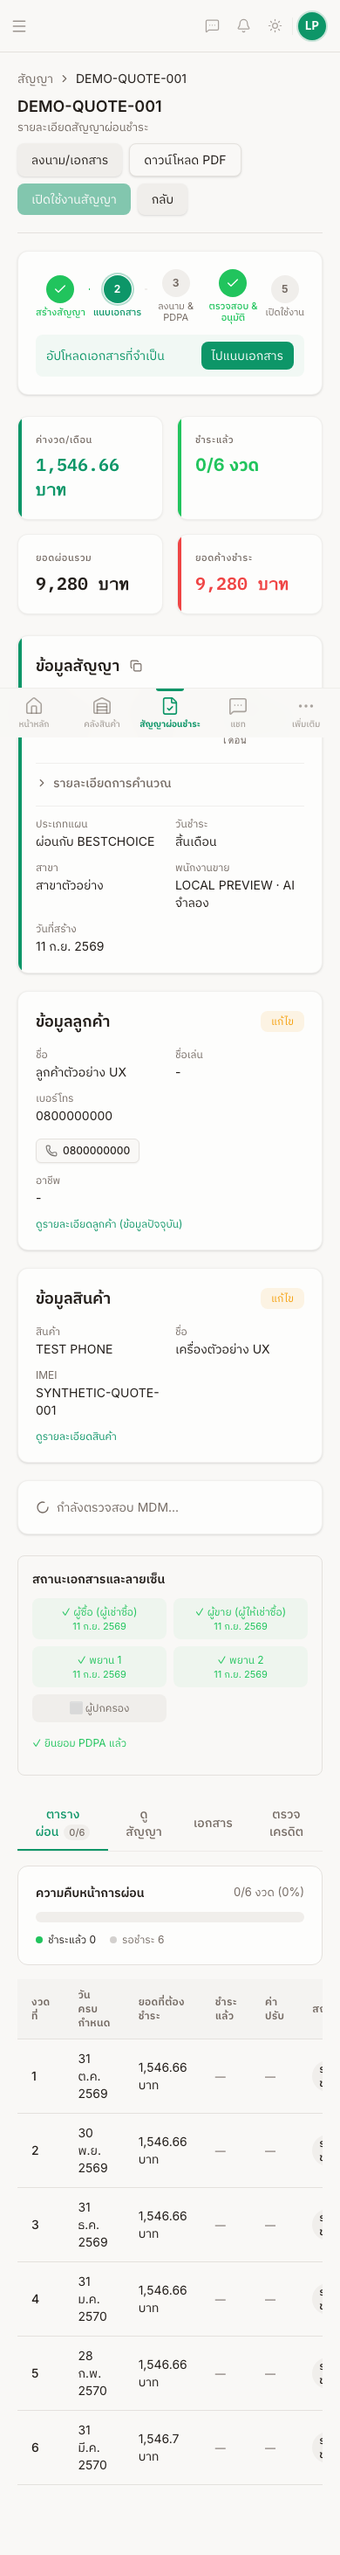
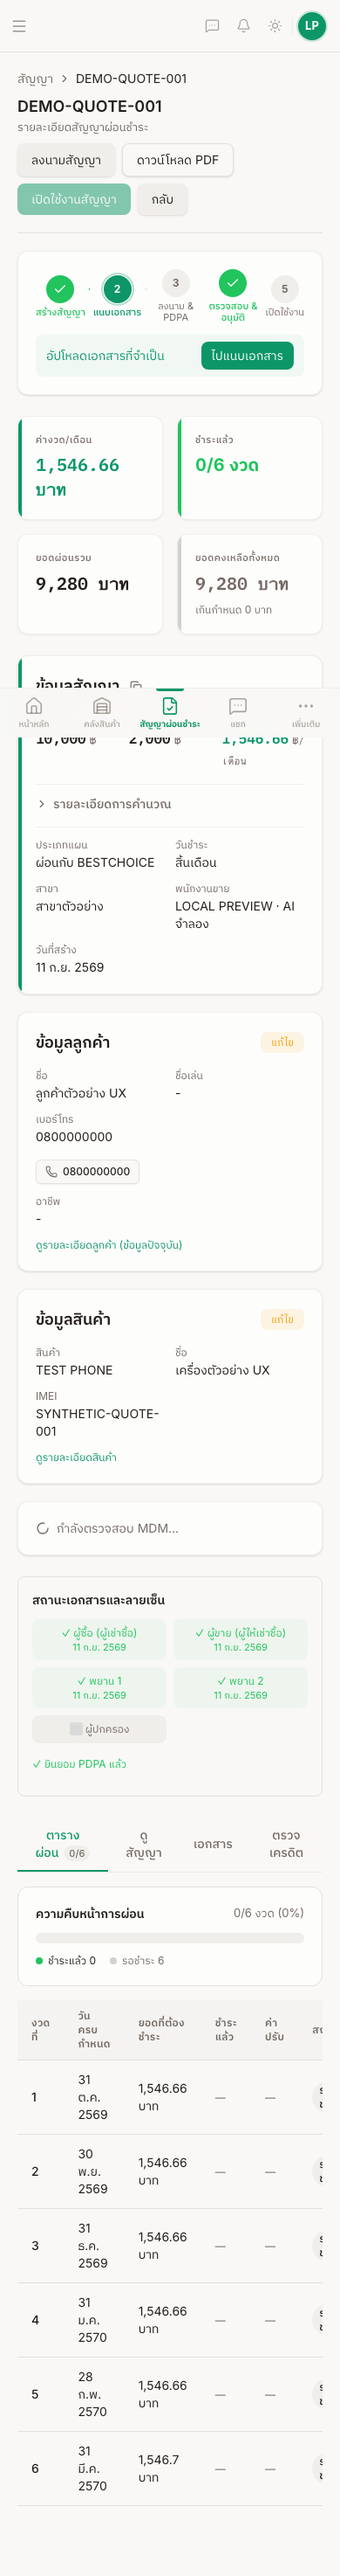
docs(sales): record completed remediation and verification evidence

diff --git a/docs/superpowers/plans/2026-09-11-sales-ux-reports.md b/docs/superpowers/plans/2026-09-11-sales-ux-reports.md
@@ -1,6 +1,6 @@
 # Sales Reports and UX/UI Implementation Plan
 
-> **For agentic workers:** REQUIRED SUB-SKILL: Use superpowers:executing-plans to implement this plan task-by-task. Steps use checkbox (`- [ ]`) syntax for tracking.
+> **For agentic workers:** REQUIRED SUB-SKILL: Use superpowers:executing-plans to implement this plan task-by-task. Steps use checkbox (`- [x]`) syntax for tracking.
 
 **Goal:** รายงานใช้ชุดข้อมูลเดียวกันทุกหน้า ผู้ใช้ค้นข้อมูลครบ ส่งต่องานได้ และทั้ง 6 เมนูมี UX/UI ที่สอดคล้อง
 
@@ -36,7 +36,7 @@
 
 **Interfaces:** คง sales list envelope; totalProfit ใช้ filter scope ทั้งชุดสำหรับ OWNER; เพิ่ม `bangkokDateRange(startDate?: string, endDate?: string): { gte?: Date; lt?: Date }` ใน API date.util.ts และ `toBangkokDateString(date?: Date): string` ใน web date.ts
 
-- [ ] เพิ่ม `sales-query.service.spec.ts` ที่ fixture มีสองใบ (net100/cost60, net200/cost50) แบ่ง page ละ1 แต่ summary totalAmount300/totalProfit190 ทั้งสองหน้า:
+- [x] เพิ่ม `sales-query.service.spec.ts` ที่ fixture มีสองใบ (net100/cost60, net200/cost50) แบ่ง page ละ1 แต่ summary totalAmount300/totalProfit190 ทั้งสองหน้า:
 
 ```ts
 expect(page1.summary.totalProfit).toBe(190);
@@ -46,7 +46,7 @@ expect(page1.summary.totalAmount).toBe(page2.summary.totalAmount);
 
 ใช้ `SalesQueryService.findAll({page: 1, limit: 1}, owner)` จริงและ stub Prisma delegates ใน unit test; integration ใช้ sale fixtures สองสาขาเพื่อยืนยัน where ไม่หลุด A2
 
-- [ ] เพิ่ม date helper tests ไม่ขึ้นกับ TZ ของ process:
+- [x] เพิ่ม date helper tests ไม่ขึ้นกับ TZ ของ process:
 
 ```ts
 expect(bangkokDateRange('2026-09-01', '2026-09-30')).toEqual({
@@ -56,8 +56,8 @@ expect(bangkokDateRange('2026-09-01', '2026-09-30')).toEqual({
 expect(() => bangkokDateRange('2026-02-30', '2026-03-01')).toThrow();
 ```
 
-- [ ] รัน API tests ก่อนแก้; คาด FAIL กำไรเฉพาะ page และ date helper ไม่พบ; implement strict YYYY-MM-DD/calendar validation, reject start>end, ใช้ exclusive upper bound ของวันถัดไป เวลาไม่ผ่าน `setHours` ตาม server TZ
-- [ ] สร้าง `where` ชุดเดียวกับ A2; owner-profit aggregate ใช้ `sale.groupBy({by:['productId'], where, _sum:{netAmount:true}, _count:{_all:true}})` แล้วอ่าน cost ของ product IDs ชุดนั้นและรวมด้วย Decimal; ไม่เอา page data มา reduce และไม่โหลด customer/contract/PII ทั้งชุดเพื่อคำนวณกำไร
+- [x] รัน API tests ก่อนแก้; คาด FAIL กำไรเฉพาะ page และ date helper ไม่พบ; implement strict YYYY-MM-DD/calendar validation, reject start>end, ใช้ exclusive upper bound ของวันถัดไป เวลาไม่ผ่าน `setHours` ตาม server TZ
+- [x] สร้าง `where` ชุดเดียวกับ A2; owner-profit aggregate ใช้ `sale.groupBy({by:['productId'], where, _sum:{netAmount:true}, _count:{_all:true}})` แล้วอ่าน cost ของ product IDs ชุดนั้นและรวมด้วย Decimal; ไม่เอา page data มา reduce และไม่โหลด customer/contract/PII ทั้งชุดเพื่อคำนวณกำไร
 
 ```ts
 profit = profit.plus(group._sum.netAmount ?? 0)
@@ -66,10 +66,10 @@ profit = profit.plus(group._sum.netAmount ?? 0)
 
 สูตรนี้คง “ยอดสุทธิ−ต้นทุนเครื่องตามสูตรเดิม” ข้าม pagination ไม่เปลี่ยนเป็นกำไรบัญชีที่รวมดอกเบี้ย/commission/ภาษี; ใส่นิยามใต้ KPI และรายงานข้อจำกัดว่าต้นทุนยังอ่านจาก product ปัจจุบัน ไม่อ้างว่าเป็น historical cost snapshot
 
-- [ ] ตาม C3 แยก Sale ที่ผูก contract DRAFT ออกจากยอดขายสำเร็จทั้ง list/summary/daily/top default; explicit draft filter ดูรายการเตรียมสัญญาได้แต่ระบุความหมาย; voided ยังคง exclude default และ explicit includeVoided แสดง flags ชัด
-- [ ] ปุ่มวันนี้/เดือนนี้/เดือนก่อนใน SalesHistory ใช้ Bangkok calendar helpers ไม่ใช้ `toISOString().split('T')[0]`; Booking expireDate date-only แปลงเป็นสิ้นวันไทยและเก็บ UTC; date parser ใช้ซ้ำใน daily summary
-- [ ] แก้ semantics: ContractDetail แยกยอดคงเหลือทั้งหมดจากเกินกำหนด; Contracts portfolio ไม่ติดป้าย sellingPrice เป็นหนี้คงเหลือ; credit avg ไม่มีคะแนนแสดง “ยังไม่มีคะแนน” ไม่ใช่0; ยังไม่เพิ่ม cash-received KPI จาก sale.createdAt
-- [ ] unit/web/harness/`local:check`, review/commit `fix(sales): align report totals and Bangkok date filters`
+- [x] ตาม C3 แยก Sale ที่ผูก contract DRAFT ออกจากยอดขายสำเร็จทั้ง list/summary/daily/top default; explicit draft filter ดูรายการเตรียมสัญญาได้แต่ระบุความหมาย; voided ยังคง exclude default และ explicit includeVoided แสดง flags ชัด
+- [x] ปุ่มวันนี้/เดือนนี้/เดือนก่อนใน SalesHistory ใช้ Bangkok calendar helpers ไม่ใช้ `toISOString().split('T')[0]`; Booking expireDate date-only แปลงเป็นสิ้นวันไทยและเก็บ UTC; date parser ใช้ซ้ำใน daily summary
+- [x] แก้ semantics: ContractDetail แยกยอดคงเหลือทั้งหมดจากเกินกำหนด; Contracts portfolio ไม่ติดป้าย sellingPrice เป็นหนี้คงเหลือ; credit avg ไม่มีคะแนนแสดง “ยังไม่มีคะแนน” ไม่ใช่0; ยังไม่เพิ่ม cash-received KPI จาก sale.createdAt
+- [x] unit/web/harness/`local:check`, review/commit `fix(sales): align report totals and Bangkok date filters`
 
 ## Task D2: Pagination และ export ได้ข้อมูลครบตาม filters
 
@@ -84,7 +84,7 @@ export async function fetchExportPages<T extends { id: string }>(
 ): Promise<T[]>;
 ```
 
-- [ ] test independent of current UI page; fetcher fixture page1=200/page2=1, total201:
+- [x] test independent of current UI page; fetcher fixture page1=200/page2=1, total201:
 
 ```ts
 const rows = Array.from({ length: 201 }, (_, index) => ({ id: String(index) }));
@@ -95,8 +95,8 @@ expect(await fetchExportPages(fetchPage)).toHaveLength(201);
 expect(fetchPage.mock.calls).toEqual([[1, 200], [2, 200]]);
 ```
 
-- [ ] รัน `npm run test --workspace=apps/web -- src/lib/fetch-export-pages.test.ts`; คาด FAIL module ยังไม่มี
-- [ ] helper เริ่ม page1/limit200 ทุกครั้ง; เก็บ first total; ทุกหน้า total ต้องเท่าเดิมและ id ไม่ซ้ำ; ถ้าหน้าว่างก่อนครบหรือจำนวนเกิน total ให้ throw ข้อความ “ข้อมูลเปลี่ยนระหว่างส่งออก กรุณาลองใหม่”; ไม่มีไฟล์ครึ่งเดียวเมื่อ request ใดล้มเหลว; ไม่ retry วนไม่สิ้นสุด
+- [x] รัน `npm run test --workspace=apps/web -- src/lib/fetch-export-pages.test.ts`; คาด FAIL module ยังไม่มี
+- [x] helper เริ่ม page1/limit200 ทุกครั้ง; เก็บ first total; ทุกหน้า total ต้องเท่าเดิมและ id ไม่ซ้ำ; ถ้าหน้าว่างก่อนครบหรือจำนวนเกิน total ให้ throw ข้อความ “ข้อมูลเปลี่ยนระหว่างส่งออก กรุณาลองใหม่”; ไม่มีไฟล์ครึ่งเดียวเมื่อ request ใดล้มเหลว; ไม่ retry วนไม่สิ้นสุด
 
 ```ts
 if (response.total !== expectedTotal || response.data.some(row => seen.has(row.id))) {
@@ -104,13 +104,13 @@ if (response.total !== expectedTotal || response.data.some(row => seen.has(row.i
 }
 ```
 
-- [ ] แต่ละหน้ามี builder filters เดียวที่ใช้ทั้ง list/export; export ignore current page แต่คง search/branch/company/status/tier/date/sort/includeVoided; Contracts เลิก export เฉพาะ `contracts.map` เมื่อเลือก “ตามตัวกรองทั้งหมด”; มีตัวเลือก “หน้าปัจจุบัน” ที่ระบุชัด
-- [ ] API pagination order ใช้ tie-break `createdAt,id` หรือ sort field+id; เพิ่ม page controls ให้ Bookings/CreditChecks; query key รวม page/size/filters; filter เปลี่ยน reset page1; customer picker เปลี่ยนเป็น debounced server search ไม่โหลดเพียง200แล้วค้นใน client
-- [ ] SalesListQueryDto extends PaginationDto เดิม (page>=1, limit1–200) และใช้ @Query() DTO แทน parseInt แบบไม่ validate; คง filter names ตาม A2; HTTP tests page0/NaN/limit201 ต้อง400 และ export helper limit200 ผ่าน
-- [ ] Contracts kanban ระบุว่าข้อมูลชุดใดและมี pagination ที่เข้าถึงได้ใน view นั้น; จำนวนหัวคอลัมน์ใช้จำนวนรวมจาก API หรือเขียน “ในหน้านี้” เมื่อเป็น page count ไม่แสดงเหมือนทั้งพอร์ต
-- [ ] rendered-page tests ต้องเปิดหน้า2/ตั้ง tier+sort แล้ว export ได้ทุกแถวตรง filters; API limit ไม่เกิน200; last page ที่หายหลัง mutation กลับหน้า valid ได้; error/retry ไม่ทำ selection หาย
-- [ ] ขอบเขตความสอดคล้อง: paged export นี้ไม่ใช่ DB snapshot ข้ามคำขอ หากข้อมูลเปลี่ยนแต่ total เท่าเดิมบางแบบตรวจไม่ได้ ให้แสดงเวลาที่ดึงและไม่เรียกว่า snapshot; ถ้าต้องใช้ปิดบัญชีแบบ snapshot ให้ใช้ server export/report ที่รับรอง transaction แยก ไม่กล่าวอ้างเกินสิ่งที่สร้าง
-- [ ] web tests + API pagination tests + `local:check`, review/commit `fix(sales): paginate queues and export the selected dataset`
+- [x] แต่ละหน้ามี builder filters เดียวที่ใช้ทั้ง list/export; export ignore current page แต่คง search/branch/company/status/tier/date/sort/includeVoided; Contracts เลิก export เฉพาะ `contracts.map` เมื่อเลือก “ตามตัวกรองทั้งหมด”; มีตัวเลือก “หน้าปัจจุบัน” ที่ระบุชัด
+- [x] API pagination order ใช้ tie-break `createdAt,id` หรือ sort field+id; เพิ่ม page controls ให้ Bookings/CreditChecks; query key รวม page/size/filters; filter เปลี่ยน reset page1; customer picker เปลี่ยนเป็น debounced server search ไม่โหลดเพียง200แล้วค้นใน client
+- [x] SalesListQueryDto extends PaginationDto เดิม (page>=1, limit1–200) และใช้ @Query() DTO แทน parseInt แบบไม่ validate; คง filter names ตาม A2; HTTP tests page0/NaN/limit201 ต้อง400 และ export helper limit200 ผ่าน
+- [x] Contracts kanban ระบุว่าข้อมูลชุดใดและมี pagination ที่เข้าถึงได้ใน view นั้น; จำนวนหัวคอลัมน์ใช้จำนวนรวมจาก API หรือเขียน “ในหน้านี้” เมื่อเป็น page count ไม่แสดงเหมือนทั้งพอร์ต
+- [x] rendered-page tests ต้องเปิดหน้า2/ตั้ง tier+sort แล้ว export ได้ทุกแถวตรง filters; API limit ไม่เกิน200; last page ที่หายหลัง mutation กลับหน้า valid ได้; error/retry ไม่ทำ selection หาย
+- [x] ขอบเขตความสอดคล้อง: paged export นี้ไม่ใช่ DB snapshot ข้ามคำขอ หากข้อมูลเปลี่ยนแต่ total เท่าเดิมบางแบบตรวจไม่ได้ ให้แสดงเวลาที่ดึงและไม่เรียกว่า snapshot; ถ้าต้องใช้ปิดบัญชีแบบ snapshot ให้ใช้ server export/report ที่รับรอง transaction แยก ไม่กล่าวอ้างเกินสิ่งที่สร้าง
+- [x] web tests + API pagination tests + `local:check`, review/commit `fix(sales): paginate queues and export the selected dataset`
 
 ## Task D3: เชื่อมงาน สิทธิ์ปุ่ม และ refresh ข้ามหน้า
 
@@ -121,7 +121,7 @@ export type SalesMutationEvent =
   'sale-created' | 'sale-voided' | 'booking-updated' | 'booking-converted' | 'contract-created';
 ```
 
-- [ ] rendered POS test เลือกลูกค้า/สินค้าแล้วเปิดผ่อน ต้องเข้าหน้า wizard พร้อม IDs เดิม; return URL ไม่รับ external/คนละลูกค้า:
+- [x] rendered POS test เลือกลูกค้า/สินค้าแล้วเปิดผ่อน ต้องเข้าหน้า wizard พร้อม IDs เดิม; return URL ไม่รับ external/คนละลูกค้า:
 
 ```ts
 const params = new URLSearchParams({ customerId: selectedCustomer.id, productId: selectedProduct.id });
@@ -132,10 +132,10 @@ expect(destination).toContain(`productId=${selectedProduct.id}`);
 
 เพิ่ม assertion การ navigate จริงและ restore selection ของ wizard ใช้ `RestoredSelection.test.tsx` เดิม ไม่จบที่ helper string
 
-- [ ] รัน POS/restore/credit-return tests ก่อนแก้; คาด FAIL เพราะ POS ไป URL ว่าง
-- [ ] แสดง dialog ก่อนส่งต่อว่าใช้ลูกค้า/เครื่องเดิม แต่ wizard จะคำนวณราคาผ่อนใหม่; ส่วนลด ของแถม ราคา override และมัดจำที่ไม่มี field ในปลายทางต้องสรุปว่าไม่ถูกย้ายและให้กลับไปแก้ได้ ไม่หายเงียบหรือแอบใส่ query param ที่ถูก allowlist ทิ้ง; down/months ส่งเฉพาะที่ปลายทางรองรับ
-- [ ] แยก `canEditCustomer` จาก `canStartCredit`/`canUploadDocuments` ตาม decorators ของ endpoints จริง; Contracts create CTA ตรง ProtectedRoute และ POST roles; company grants ยังจำกัด action; error403 ไม่แสดงเป็น empty list
-- [ ] เพิ่ม invalidation helper ตาม pattern `PaymentsPage/invalidatePaymentQueries.ts`; prefix จริงที่ต้องตรวจคือ `sales-history`, `top-products`, `pos-products`, `products`, `products-available`, `bookings`, `booking`, `contracts`, `contract`, `trade-in-credits` ใช้ event map เพื่อไม่ invalidate ทุกหน้าโดยไม่จำเป็น
+- [x] รัน POS/restore/credit-return regression ครอบคลุม URL และการคืน selection; เทียบ baseline ที่ POS ส่งต่อ URL ว่าง (ไม่มี red log แยกสำหรับ handoff ในชุด D)
+- [x] แสดง dialog ก่อนส่งต่อว่าใช้ลูกค้า/เครื่องเดิม แต่ wizard จะคำนวณราคาผ่อนใหม่; ส่วนลด ของแถม ราคา override และมัดจำที่ไม่มี field ในปลายทางต้องสรุปว่าไม่ถูกย้ายและให้กลับไปแก้ได้ ไม่หายเงียบหรือแอบใส่ query param ที่ถูก allowlist ทิ้ง; down/months ส่งเฉพาะที่ปลายทางรองรับ
+- [x] แยก `canEditCustomer` จาก `canStartCredit`/`canUploadDocuments` ตาม decorators ของ endpoints จริง; Contracts create CTA ตรง ProtectedRoute และ POST roles; company grants ยังจำกัด action; error403 ไม่แสดงเป็น empty list
+- [x] เพิ่ม invalidation helper ตาม pattern `PaymentsPage/invalidatePaymentQueries.ts`; prefix จริงที่ต้องตรวจคือ `sales-history`, `top-products`, `pos-products`, `products`, `products-available`, `bookings`, `booking`, `contracts`, `contract`, `trade-in-credits` ใช้ event map เพื่อไม่ invalidate ทุกหน้าโดยไม่จำเป็น
 
 ```ts
 await Promise.all(keys.map(key => qc.invalidateQueries({ queryKey: [key] })));
@@ -143,15 +143,15 @@ await Promise.all(keys.map(key => qc.invalidateQueries({ queryKey: [key] })));
 
 `keys` มาจาก event map: sale-created/voided → sales+stock+top+trade; booking-updated → booking/list; booking-converted → booking+sales+stock+top; contract-created → contracts+stock+trade และ customer latest credit ที่ถูก claim
 
-- [ ] regression เริ่มจาก cache warm staleTime3นาที → mutation → เปิดหน้าที่เกี่ยวข้องทันทีต้องข้อมูลใหม่; mutation error ไม่ล้าง draft หรือแสดง success; กลับจากเครดิตคืน draft แยกตาม user/customer
-- [ ] web targeted tests + `local:check`, review/commit `fix(sales): preserve handoff context and refresh related views`
+- [x] regression เริ่มจาก cache warm staleTime3นาที → mutation → เปิดหน้าที่เกี่ยวข้องทันทีต้องข้อมูลใหม่; mutation error ไม่ล้าง draft หรือแสดง success; กลับจากเครดิตคืน draft แยกตาม user/customer
+- [x] web targeted tests + `local:check`, review/commit `fix(sales): preserve handoff context and refresh related views`
 
 ## Task D4: ปรับ UX/UI ทีละหน้าโดยคง design system
 
 **Interfaces:** reuse PageHeader/QueryBoundary/form controls/StatusBadge/PaginationBar; UI รับ response เดิมหรือ additive fields จาก A–C; ไม่มี schema/financial mutation ใหม่ใน task นี้
 
-- [ ] เก็บ before screenshots ทุก view ตามตารางในแผนหลัก ที่1440/390 และจดตำแหน่งปุ่มหลัก/สถานะ error/current data; ใช้ evidence รอบ audit เป็น baseline เปรียบเทียบ ไม่แทนภาพหลังแก้
-- [ ] แก้ CustomerDetail tab container ก่อน: parent `min-w-0`, tabs `max-w-full overflow-x-auto`, content `min-w-0`; table overflow อยู่ใน region ที่เลื่อนได้ ไม่ซ่อนเนื้อหาด้วย body overflow
+- [x] เก็บ before screenshots ทุก view ตามตารางในแผนหลัก ที่1440/390 และจดตำแหน่งปุ่มหลัก/สถานะ error/current data; ใช้ evidence รอบ audit เป็น baseline เปรียบเทียบ ไม่แทนภาพหลังแก้
+- [x] แก้ CustomerDetail tab container ก่อน: parent `min-w-0`, tabs `max-w-full overflow-x-auto`, content `min-w-0`; table overflow อยู่ใน region ที่เลื่อนได้ ไม่ซ่อนเนื้อหาด้วย body overflow
 
 ```tsx
 <div className="min-w-0">
@@ -163,12 +163,12 @@ await Promise.all(keys.map(key => qc.invalidateQueries({ queryKey: [key] })));
 
 `tabs` เป็น tab controls ที่มีอยู่ในหน้า ไม่สร้าง div นี้ครอบ interactive controls จน keyboard semantics เปลี่ยน
 
-- [ ] ลูกค้า/เครดิต: header action หลัก1ปุ่ม, search/filters ในแถวเดียวเมื่อพอพื้นที่; mobile เปิด filters ใน sheet; status มี text ไม่อาศัยสี; empty state แยกไม่มีข้อมูลกับค้นไม่พบ; AI score null ใช้ข้อความตาม D1
-- [ ] POS/Booking/Contract wizard: hierarchy ลูกค้า→เครื่อง→เงื่อนไข→เงิน→ยืนยัน; summary monetary line items จาก backend ที่แก้แล้ว; sticky area ไม่บัง input/keyboard; ปุ่มระบุผล “บันทึกรับมัดจำ”, “รับส่วนต่างและขาย”, “สร้างสัญญาและบันทึกรับดาวน์” เมื่อ action ทำจริงตามนั้น
-- [ ] Contracts/detail/signing: งานถัดไปตามสถานะ/role; sign action เฉพาะสถานะที่รองรับ; ACTIVE เปิดเอกสารจริง; required signers จาก C3; อ่านเอกสารผิดพลาดมี retry ตาม A5; DRAFT total ไม่ใช้คำยอดเกินกำหนด
-- [ ] SalesHistory: ใช้ชื่อ “รายการขาย” ใน sidebar/title/breadcrumb ที่อ้างถึง route เดียวกัน คง URL; คอลัมน์หลักเลขใบ/วัน ลูกค้า+เครื่อง ประเภท ยอดสุทธิ สถานะ; ข้อมูลรองอยู่รายละเอียดที่ deep link ได้ และไม่ลดข้อมูลที่จำเป็นต่อ export
-- [ ] ใช้ typography/spacing/token เดิม, label+helper text, tabular numbers สำหรับเงิน, focus-visible, dialog focus return, touch targets ใช้งานนิ้วได้ และ reduced-motion เดิม; ไม่มี card ทุกบรรทัดหรือ gradient ตกแต่งเพิ่ม
-- [ ] ไม่สร้าง unit tests ที่ snapshot className; ใช้ browser overflow/keyboard/errors/action tests ใน D5 และ tests ของ logic ที่เปลี่ยนจริง; รัน `local:check`, review/commit แยก customer/credit, sales/booking, contract เพื่อย้อนกลับเฉพาะ layout ได้
+- [x] ลูกค้า/เครดิต: header action หลัก1ปุ่ม, search/filters ในแถวเดียวเมื่อพอพื้นที่; mobile เปิด filters ใน sheet; status มี text ไม่อาศัยสี; empty state แยกไม่มีข้อมูลกับค้นไม่พบ; AI score null ใช้ข้อความตาม D1
+- [x] POS/Booking/Contract wizard: hierarchy ลูกค้า→เครื่อง→เงื่อนไข→เงิน→ยืนยัน; summary monetary line items จาก backend ที่แก้แล้ว; sticky area ไม่บัง input/keyboard; ปุ่มระบุผล “บันทึกรับมัดจำ”, “รับส่วนต่างและขาย”, “สร้างสัญญาและบันทึกรับดาวน์” เมื่อ action ทำจริงตามนั้น
+- [x] Contracts/detail/signing: งานถัดไปตามสถานะ/role; sign action เฉพาะสถานะที่รองรับ; ACTIVE เปิดเอกสารจริง; required signers จาก C3; อ่านเอกสารผิดพลาดมี retry ตาม A5; DRAFT total ไม่ใช้คำยอดเกินกำหนด
+- [x] SalesHistory: ใช้ชื่อ “รายการขาย” ใน sidebar/title/breadcrumb ที่อ้างถึง route เดียวกัน คง URL; คอลัมน์หลักเลขใบ/วัน ลูกค้า+เครื่อง ประเภท ยอดสุทธิ สถานะ; ข้อมูลรองอยู่รายละเอียดที่ deep link ได้ และไม่ลดข้อมูลที่จำเป็นต่อ export
+- [x] ใช้ typography/spacing/token เดิม, label+helper text, tabular numbers สำหรับเงิน, focus-visible, dialog focus return, touch targets ใช้งานนิ้วได้ และ reduced-motion เดิม; ไม่มี card ทุกบรรทัดหรือ gradient ตกแต่งเพิ่ม
+- [x] ไม่สร้าง unit tests ที่ snapshot className; ใช้ browser overflow/keyboard/errors/action tests ใน D5 และ tests ของ logic ที่เปลี่ยนจริง; รัน `local:check`, review/commit แยก API / UI / browser tests ตาม helper ที่ใช้ร่วมกัน
 
 ## Task D5: Browser coverage ครบทั้งหกเมนู
 
@@ -176,7 +176,7 @@ await Promise.all(keys.map(key => qc.invalidateQueries({ queryKey: [key] })));
 
 **Interfaces:** tests รับ baseURL ที่เป็น web checkout นี้; fixture tests แยกจาก API-backed integration; report ทุก case บอกว่า mocked API หรือ isolated PostgreSQL
 
-- [ ] เพิ่ม Playwright matrix ทุกหน้าจากตารางแผนหลัก แยก test titles ตามหน้า/role/viewport/state; checks หลัก:
+- [x] เพิ่ม Playwright matrix ทุกหน้าจากตารางแผนหลัก แยก test titles ตามหน้า/role/viewport/state; checks หลัก:
 
 ```ts
 expect(await page.evaluate(() =>
@@ -187,8 +187,16 @@ await page.keyboard.press('Tab');
 await expect(page.locator(':focus')).toBeVisible();
 ```
 
-- [ ] ใช้ fixtures 201+ลูกค้า, 51+เครดิต/จอง, หลาย page sale+contract, สองสาขา, missing-price, no-score, expired, paid, voided, guardian และ503preview; ทดสอบ action ที่เปลี่ยน state ด้วย assertions จาก response/DB ไม่ใช้ screenshot อย่างเดียว
-- [ ] เติม full API flow ที่ limited preview ยังไม่มีด้วย Nest test app+Prisma จริงใน e2e harness (ใช้ pattern `credit-payment-flow.e2e-spec.ts` และ principal fixtures แบบ `stock-groups.e2e-spec.ts`); AI/OTP/storage/notification ใช้ stub และระบุให้ชัด; ไม่ยิงเงินหรือข้อความจริง
-- [ ] รัน `npm run test:e2e --workspace=apps/web -- e2e/sales-menu-regression.spec.ts` กับ test fixture environment ที่ config ของ suite ระบุ; ใช้ `bash tools/test-chat-credit.sh` สำหรับ API/ledger flows และตรวจชื่อ test ถูก discover
-- [ ] ตรวจชุด regression เดิม POS, booking, credit, contract-create, signing, void และ return link; ผล pass ต้องอ้าง command/time/revision; failure ที่ยังอยู่ไม่ถูกนับเป็น complete
-- [ ] รัน `local:check` แล้วอัปเดต verification report ตาม M1 พร้อม URL ของ server ที่ตรวจจริง; commit `test(sales): cover six-menu workflows and responsive states`
+- [x] ใช้ fixtures 201+ลูกค้า, 51+เครดิต/จอง, หลาย page sale+contract, สองสาขา, missing-price, no-score, expired, paid, voided, guardian และ503preview; ทดสอบ action ที่เปลี่ยน state ด้วย assertions จาก response/DB ไม่ใช้ screenshot อย่างเดียว
+- [x] เติม full API flow ที่ limited preview ยังไม่มีด้วย Nest test app+Prisma จริงใน e2e harness (ใช้ pattern `credit-payment-flow.e2e-spec.ts` และ principal fixtures แบบ `stock-groups.e2e-spec.ts`); AI/OTP/storage/notification ใช้ stub และระบุให้ชัด; ไม่ยิงเงินหรือข้อความจริง
+- [x] รัน `npm run test:e2e --workspace=apps/web -- e2e/sales-menu-regression.spec.ts` กับ test fixture environment ที่ config ของ suite ระบุ; ใช้ `bash tools/test-chat-credit.sh` สำหรับ API/ledger flows และตรวจชื่อ test ถูก discover
+- [x] ตรวจชุด regression เดิม POS, booking, credit, contract-create, signing, void และ return link; ผล pass ต้องอ้าง command/time/revision; failure ที่ยังอยู่ไม่ถูกนับเป็น complete
+- [x] รัน `local:check` แล้วอัปเดต verification report ตาม M1 พร้อม URL ของ server ที่ตรวจจริง; commit `test(sales): cover six-menu workflows and responsive states`
+
+## Execution checkpoint
+
+- D1–D5 ผ่านแล้ว: API198, web targeted121, PostgreSQL123, six-menu Playwright18 และ browserเดิม8+20+10 states; final `local:check`21 checks ผ่าน12:55:36 วันที่11 กันยายน2569
+- ใช้ `toBangkokDateString`/expiry helpers จากชุด B และ components/tokens เดิมตาม ui-ux-pro-max; ไม่มี UI library เพิ่ม
+- Commit ตามชั้นที่แชร์โค้ด: `50a21b5d5` API, `eb7000344` UI/export/cache/handoff, `b86687bd2` browser tests. ผลจริงและข้อจำกัดอยู่ใน [verification report](../../review/2026-09-11-sales/remediation-verification.md)
+- ใช้ config `playwright.sales.config.ts` แยกจาก default E2E login เพื่อไม่ใช้ฐาน inherited; loopback-only และ intercept API ทั้งหมด. จำนวนผู้สมัครมากใน tier export ยังไม่ได้วัด performance จริง; paged export ไม่ใช่ database snapshot
+- Independent read-only reviewer ยืนยันไม่มี Critical/Warning หลังแก้; ไม่มี deploy/merge หรือเขียนข้อมูลจริง

diff --git a/docs/review/2026-09-11-sales/remediation-verification.md b/docs/review/2026-09-11-sales/remediation-verification.md
@@ -69,11 +69,9 @@ ORDER BY s.created_at, s.id;
 
 พรีวิวที่ตรวจแล้ว: http://localhost:5207/pos และ http://localhost:5207/inbox; server ยังทำงานจาก checkout นี้
 
-## งานที่ยังไม่ปิดในแผน
+## ขอบเขตระยะขยาย
 
-ชุด D (รายงาน/export/pagination/role CTA/handoff/cache/UX ครบ 6 เมนู) ยังอยู่ระหว่างดำเนินการหลังชุด C ข้อค้นพบเหล่านั้นยังเปิดอยู่ รวมกำไรที่ขึ้นกับหน้าปัจจุบันและช่วงวันไทย จึงยังไม่ถือว่าปิดการตรวจหมวดขายทั้งหมด
-
-การนำมัดจำไปใช้กับสัญญาผ่อนหรือไฟแนนซ์ยังเป็นระยะขยายตามแผน ไม่เปิดความสามารถดังกล่าวผ่านการเปลี่ยน UI ในชุด A
+การนำมัดจำไปใช้กับสัญญาผ่อนหรือไฟแนนซ์ยังเป็นระยะขยายตามแผน ไม่เปิดความสามารถดังกล่าวผ่านการเปลี่ยน UI ในชุด A–D; ผลการดำเนินการ D และการตรวจรับสุดท้ายอยู่ท้ายรายงาน
 
 ## ชุด B: Booking integrity
 
@@ -135,3 +133,63 @@ Read-only reviewer: **PASS, no Critical/Warning** after correcting effective quo
 | `node docs/review/2026-09-11-sales/contracts-browser-check.mjs` | **10 states PASS** at1440/390: quote, transfer/schedule,409review,503quote failure, guardian required; no page overflow/uncaught errors, actual request fingerprint/tender checked |
 
 C browser captures are in `evidence/contracts/`; visual inspection confirmed responsive form/summary and distinct receipt section. Browser API responses/writes are synthetic; actual money, stock, approval claim, rollback and reversal assertions are in PostgreSQL tests. AI, OTP, storage and outbound notifications remain stubs; no production data, messages or financial writes. A test-only `.at()` incompatible with the web TS target was replaced by slice; one overlapping Prisma regeneration temporarily removed generated client files, so API tests were rerun after generation and passed.
+
+## ชุด D: รายงาน การส่งต่องาน และ UX/UI ครบหกเมนู
+
+| งาน / Finding | ผลที่เปลี่ยน | หลักฐาน |
+|---|---|---|
+| D1 / F06,F17,F18 | กำไร OWNER รวมทั้งชุดตัวกรองและไม่เปลี่ยนตามหน้า; strict วันไทยใช้ขอบเขตต้นวันถึงก่อนต้นวันถัดไป; draft/void แยกความหมาย; คงเหลือทั้งหมดแยกจากเกินกำหนด; คะแนน null และยอดรับ null ไม่กลายเป็น0 | API unit + HTTP บน PostgreSQL, Decimal balance tests, browser null/zero |
+| D2 / F07,F09 | export ลูกค้า/สัญญา/ใบขายเริ่มหน้า1ครั้งละ200ตามตัวกรองเดียวกับรายการ; ตรวจ total/ID ซ้ำและหยุดเมื่อเปลี่ยนบริษัท; ระบุเวลาดึง; คิวเครดิต/จองมี pagination; tier/credit-score ลูกค้าคัด/เรียงก่อนแบ่งหน้า; Kanban ระบุจำนวนในหน้านี้ | 201-row workbook assertions, API DTO bounds and stable ordering, derived customer query/tier tests |
+| D3 / F10,F11,F14 | POS ส่ง customer/product IDs พร้อมแจ้งข้อมูลที่ต้องระบุใหม่; ปุ่มตรง roles ของ API; cache ที่สัมพันธ์กัน refresh หลังขาย/ยกเลิก/จอง/สร้างสัญญา; branchless Contracts fail closed | rendered POS handoff/restore, warm-cache tests, HTTP role matrix, actual company-switch download cancellation |
+| D4 / F16,F17 | CustomerDetail ทุกแท็บอยู่ในกรอบมือถือ; ลูกค้า/เครดิตใช้ filter sheet; คืน focus และคงช่องค้นหาเมื่อ pending/error; ใบขายใช้ชื่อรายการขายและรายละเอียด deep link; ปุ่มเงินจอง/ดาวน์ระบุผลจริง; ACTIVE เปิดดาวน์โหลดเอกสารแทนชวนลงนาม | responsive browser1440/390, all7 customer tabs, errors/retry, guardian4/5, synthetic PDF download |
+
+แนวทางรวมส่วนซ้ำ: ใช้ quote/tender/stock/signature policy กลาง และ helper สำหรับ export/invalidation/filter panel ร่วมกัน ยังคงทั้งหกเมนูตามงานของผู้ใช้ การรวมทุกงานเป็นหน้าขายเดียวหรือใช้มัดจำร่วมกับผ่อน/ไฟแนนซ์ยังเป็นระยะขยายที่ระบุไว้ในแผน ไม่ได้เปิดด้วย UI เพียงอย่างเดียว
+
+ข้อจำกัดที่คงไว้โดยตั้งใจ:
+
+- กำไรเป็นยอดสุทธิหักต้นทุนเครื่องปัจจุบัน ไม่ใช่ต้นทุน ณ วันขายหรือกำไรบัญชีหลังภาษี/ดอกเบี้ย/ค่าคอม
+- Export หลายคำขอไม่ใช่ transaction snapshot; total/duplicate checks ตรวจการเปลี่ยนได้บางแบบเท่านั้น ไฟล์ระบุเวลาที่ดึงข้อมูล
+- Tier export ใช้ batched queries แทน N+1 แต่แต่ละหน้าต้องคำนวณผู้สมัครทั้งชุดซ้ำ ข้อมูลหลักหมื่นขึ้นไปยังไม่ได้วัดเวลาจริง; งาน server export แบบ snapshot/performance เป็นระยะถัดไป
+- ข้อมูลเก่าที่ไม่มีหลักฐานรับเงินไม่ถูก backfill; null แสดงยังไม่ระบุ ส่วนยอด0ที่ระบุชัดยังแสดง0.00
+- Browser fixtures ใช้หน้า React จริงและ intercept API ทั้งอ่าน/เขียน ไม่ติดต่อฐานข้อมูลหรือส่งเงิน/ข้อความ; PDF fixture ตรวจการเรียก endpoint/ดาวน์โหลด ไม่อ้างว่าตรวจเนื้อหา PDF จริงจาก production ส่วนวงจรเงินและบัญชีใช้ PostgreSQL ชั่วคราวแยก
+
+ผลชุด D (11 กันยายน 2569, เวลาไทย):
+
+| คำสั่ง / หลักฐาน | ผล | เสร็จเวลา |
+|---|---|---|
+| API targeted: query/date/DTO/customer-tier/contract scope; `reports-api.log` | **10 suites / 198 tests PASS** | 12:35:13 |
+| Web targeted: export/balances/cache/POS/bookings/credit/void/wizard/return; `reports-web.log` | **16 files / 121 tests PASS** หลังแก้ ExportError/focus | 12:50:54 |
+| `bash tools/test-chat-credit.sh`; `reports-db.log` | **9 suites / 123 tests PASS** บน PostgreSQL ชั่วคราว รวม pagination/date/profit HTTP ใหม่ | 12:42:27 |
+| `npm run test:e2e --workspace=apps/web -- --config=playwright.sales.config.ts`; `reports-browser.log` | **18 tests PASS**, 1440/390, 28 ภาพ, ไม่มี uncaught page error/หน้าเว็บล้นแนวนอน | 12:53:17 |
+| `node docs/review/2026-09-11-sales/core-browser-check.mjs` | **8 states PASS** ราคาและ preview/retry | 12:45:53 |
+| `node docs/review/2026-09-11-sales/bookings-browser-check.mjs` | **20 states PASS** มัดจำ/ส่วนต่าง/expiry/legacy/error | 12:46:03 |
+| `node docs/review/2026-09-11-sales/contracts-browser-check.mjs` | **10 states PASS** quote/tender/409/503/guardian | 12:45:51 |
+
+Commits: `50a21b5d5` API รายงาน/สิทธิ์/การแบ่งหน้า, `eb7000344` UI/export/handoff/cache, `b86687bd2` six-menu browser regression. แยก commit ตามชั้น API/UI/tests เพราะ helper ใช้ร่วมหลายหน้า; ไม่ได้แยกตาม layout รายหน้าแบบที่เสนอไว้เดิม
+
+ผล independent read-only review ล่าสุด: **0 Critical / 0 Warning** หลังแก้ export company revision, branchless contract scope, overdue partial/fee balance, customer selection retention, focus และข้อความ export. มีข้อสังเกตระดับ Info เรื่องเวลาคำนวณ tier export ข้อมูลจำนวนมากตามข้อจำกัดข้างต้น
+
+Browser พบปัญหาที่เพิ่ม regression แล้ว: URL ทำให้ตารางสร้าง link node ใหม่ จึงคืน focus ด้วย sale ID แทน DOM node เก่า; `getErrorMessage` ใช้กับ transport error จึงต้องแยก `ExportError` ที่คาดหมายเพื่อแสดงเหตุเปลี่ยนบริษัท/ชุดข้อมูล. การจับภาพรอแผงเปิดสุดและตรวจกรอบ dialog ก่อนบันทึก ป้องกันภาพตัดข้อมูลกลาง animation
+
+Red evidence D1/D2 อยู่ `reports-red.log` (กำไร/วันไทย) และ `export-red.log` (helper ยังไม่มี). Handoff มี rendered regression หลัง implementation และ audit baseline; ไม่มี red log แยกในชุด D. Local check รอบแรกตรวจโค้ด/build/browser แล้วปฏิเสธ checkpoint เพราะแก้ไฟล์ e2e ระหว่างรัน จึงไม่ใช้รอบนั้นเป็นผลส่งมอบ
+
+## Coverage ปิดข้อค้นพบ
+
+| ข้อค้นพบ | สถานะ | งานและหลักฐาน |
+|---|---|---|
+| F01, S02 | แก้แล้ว | A2 + D2 HTTP role/branch/projection; branchless list/detail |
+| F02–F04, F08, F15, S06–S07 | แก้แล้ว | B1–B4 เงิน/stock/locking/expiry + PostgreSQL/20 browser states |
+| F05, S05 | แก้แล้ว | A3–A4 ราคาเงินสด/actual down + POS/settlement/void |
+| F06–F07, F09, F18 | แก้แล้ว | D1–D2 totals/date/tier/pagination + workbook201/filter assertions |
+| F10–F11, F14 | แก้แล้ว | D3 roles/handoff/cache; API HTTP + rendered navigation + warm-cache tests |
+| F12–F13, S01, S03–S04 | แก้แล้ว | A5 + C1–C3 preview consent/signers/quote/tender/lifecycle parity |
+| F16–F17 | แก้แล้ว | D1/D4 mobile tabs/filter sheet/focus/detail/ยอดเงินที่แยกความหมาย |
+| S08 | กำหนดขอบเขตแล้ว | prototype ไม่ถือเป็น backend acceptance; การใช้มัดจำข้ามผ่อน/ไฟแนนซ์ยังเป็นระยะขยาย ไม่เปิดการเงินโดยไม่มี lifecycle spec |
+
+## M1 — ผลตรวจส่งมอบ
+
[1 lines of base64/hex data omitted]
+
+หลักฐาน checkpoint: [local-check.json](remediation-evidence/local-check.json); ภาพและรายละเอียด18กรณีของชุด D: [README](remediation-evidence/README.md). รอบสุดท้ายเริ่ม backend ใหม่จาก checkout นี้และยังเปิดไว้ที่ [พรีวิวรายการขาย](http://localhost:5207/sales), [ขายสินค้า](http://localhost:5207/pos), [ลูกค้า](http://localhost:5207/customers)
+
+ปิดงานแก้ A–D/M1 ตาม coverage ข้างต้นแล้ว; ข้อจำกัดรายงาน/ข้อมูลเก่าและ feature ระยะขยายยังคงตามที่ระบุ. พรีวิวเป็นข้อมูล/AI จำลองและเป็นขอบเขตจำกัดตาม AGENTS.md; ธุรกรรมจริงของบริการขาย/มัดจำ/สัญญา/ledger ตรวจด้วย PostgreSQL ชั่วคราวแยก. ไม่มีการ deploy/merge/แก้ฐาน production หรือส่งข้อความออกภายนอก

diff --git a/docs/superpowers/plans/2026-09-11-sales-remediation.md b/docs/superpowers/plans/2026-09-11-sales-remediation.md
@@ -1,6 +1,6 @@
 # BESTCHOICE Sales Remediation Implementation Plan
 
-> **For agentic workers:** REQUIRED SUB-SKILL: Use superpowers:executing-plans to implement this plan task-by-task in the current session. Steps use checkbox (`- [ ]`) syntax for tracking.
+> **For agentic workers:** REQUIRED SUB-SKILL: Use superpowers:executing-plans to implement this plan task-by-task in the current session. Steps use checkbox (`- [x]`) syntax for tracking.
 
 **Goal:** แก้หมวดขายทั้ง 6 เมนูให้สิทธิ์ ตัวเลข สถานะ และงานที่ทำต่อสอดคล้องกัน พร้อม UX/UI ที่ใช้ได้จริงบน desktop และ mobile
 
@@ -111,12 +111,12 @@
 
 **Interfaces:** รับผล A1–D5 และ HTTP/browser/DB evidence; ส่งมอบ status ต่อ finding เป็น fixed / remaining / policy extension พร้อม commit และ test ที่รองรับ
 
-- [ ] ตรวจ flow ขายสด→void, จอง→รับมัดจำ→รับส่วนต่าง→ขาย, จอง→ยกเลิก/หมดอายุ, เครดิต→สร้าง→ลงนาม→activate, external→รอรับ→settle โดยใช้เงิน/สต็อก/ledger ในฐานชั่วคราว
-- [ ] ทวน SALES, BRANCH_MANAGER, OWNER, FINANCE_MANAGER, ACCOUNTANT ที่มี/ไม่มีสิทธิ์บริษัทและไม่มีสาขา; detail/deep link ต้องให้ผลตรง list
-- [ ] รันชุด PostgreSQL ที่เพิ่ม test discovery แล้ว และ `LOCAL_PREVIEW_PORT=5207 npm run local:check` หากพอร์ตยังเป็น managed preview ของ checkout นี้ มิฉะนั้นเลือกพอร์ตว่างใหม่
-- [ ] เก็บภาพจริงครบตาราง UX/UI พร้อม success/loading/empty/error; รายงานแยกสิ่งที่จำลอง เช่น AI, OTP, storage และการรับเงินจริง
-- [ ] อัปเดต coverage matrix จากผลทดสอบ ไม่ใช้ diagnostic เดิมที่ “ผ่านเมื่อทำซ้ำ bug ได้” เป็นหลักฐานว่าแก้แล้ว
-- [ ] ตรวจ diff เฉพาะไฟล์งานนี้ แล้ว commit เป็นชุดเล็กที่ผ่าน review/test; ไม่ stage ทั้ง repository และไม่ merge/deploy
+- [x] ตรวจ flow ขายสด→void, จอง→รับมัดจำ→รับส่วนต่าง→ขาย, จอง→ยกเลิก/หมดอายุ, เครดิต→สร้าง→ลงนาม→activate, external→รอรับ→settle โดยใช้เงิน/สต็อก/ledger ในฐานชั่วคราว
+- [x] ทวน SALES, BRANCH_MANAGER, OWNER, FINANCE_MANAGER, ACCOUNTANT ที่มี/ไม่มีสิทธิ์บริษัทและไม่มีสาขา; detail/deep link ต้องให้ผลตรง list
+- [x] รันชุด PostgreSQL ที่เพิ่ม test discovery แล้ว และ `LOCAL_PREVIEW_PORT=5207 npm run local:check` หากพอร์ตยังเป็น managed preview ของ checkout นี้ มิฉะนั้นเลือกพอร์ตว่างใหม่
+- [x] เก็บภาพจริงครบตาราง UX/UI พร้อม success/loading/empty/error; รายงานแยกสิ่งที่จำลอง เช่น AI, OTP, storage และการรับเงินจริง
+- [x] อัปเดต coverage matrix จากผลทดสอบ ไม่ใช้ diagnostic เดิมที่ “ผ่านเมื่อทำซ้ำ bug ได้” เป็นหลักฐานว่าแก้แล้ว
+- [x] ตรวจ diff เฉพาะไฟล์งานนี้ แล้ว commit เป็นชุดเล็กที่ผ่าน review/test; ไม่ stage ทั้ง repository และไม่ merge/deploy
 
 **เกณฑ์ปิดแผน:** A–D และ M1 ผ่านทั้งหมด ข้อผิดพลาด 18+8 มี evidence ปิดหรือระบุข้อจำกัดนโยบายอย่างตรงไปตรงมา; feature ระยะขยายไม่แอบเปิดใน UI; local server จาก checkout ที่แก้ยังทำงานและมี URL ส่งมอบ
 

diff --git a/docs/superpowers/plans/2026-09-11-sales-core.md b/docs/superpowers/plans/2026-09-11-sales-core.md
@@ -35,7 +35,7 @@
 - [x] บันทึก `git status --short`, revision และผล `npm ls gsap --workspace=@installment/web-shop --depth=0` ก่อนแก้
 - [x] ตรวจ lockfile ว่าล็อก `gsap` และ `@gsap/react` แล้ว; คืน dependency จาก lock เดิมด้วย `npm ci --ignore-scripts` ใน checkout นี้ ตรวจ diff ว่า manifest/lock ไม่ถูกอัปเกรด จากนั้นรัน Prisma generate/build ผ่าน `local:check` ตามเดิม
 - [x] รัน `LOCAL_PREVIEW_PORT=5207 npm run local:check` โดยตรวจเจ้าของ process ก่อนใช้พอร์ต; บันทึก failure ที่เหลือเป็น baseline ไม่ลบ tests เพื่อให้ผ่าน
-- [ ] เมื่อเพิ่ม DB spec ใน task ถัดไป เพิ่มชื่อ `sales-read-scope`, `sales-money-regression`, `bookings-lifecycle`, `contract-sales-consistency` ใน `testRegex` ของ `apps/api/e2e/jest-chat-credit.json` และตรวจ discovery:
+- [x] เพิ่ม `sales-read-scope`, `sales-money-regression`, `bookings-lifecycle` ใน `testRegex` ของ `apps/api/e2e/jest-chat-credit.json` และตรวจ discovery; contract consistency เพิ่มใน `credit-payment-flow` เดิมแทนการสร้าง spec ซ้ำ:
 
 ```sh
 cd apps/api
@@ -136,7 +136,7 @@ const sellingPriceValue = saleType === 'CASH'
 saleForm.setValue('sellingPrice', sellingPriceValue ?? 0, { shouldValidate: true });
 ```
 
-- [ ] ทดสอบ manual price/discount/bundle/trade-in ไม่ถูก reset หลังเปลี่ยน customer หรือ rerender; browser 1440/390 แสดง CASH 9000 และคำเตือนเมื่อไม่มีราคา
+- [x] ทดสอบราคาที่เลือกคงเดิมเมื่อเปลี่ยนลูกค้า และส่วนลดคงเดิมเมื่อเปลี่ยนเครื่อง; ทวนของแถมจากโค้ด; browser 1440/390 แสดง CASH 9000 และคำเตือนเมื่อไม่มีราคา. ไม่เพิ่ม manual price override; เครดิตเทิร์นยังล้างเมื่อเปลี่ยน customer/product/type ตามนโยบายเดิมเพื่อไม่ใช้เงินผิดบริบท
 - [x] ผ่าน targeted tests, `local:check`, review แล้ว commit `fix(pos): select the cash price for cash sales`
 
 ## Task A4: External finance ดาวน์ศูนย์ไม่สร้างยอดรับเทียม
@@ -197,6 +197,6 @@ const continueToSign = () => { if (canContinue) onComplete(); };
 - PostgreSQL รวม 8 suites / 91 tests ผ่าน; web targeted POS 7 + signing 12 = 19 tests; API targeted 81 tests
 - เพิ่ม `SigningWizard.test.tsx` เพื่อครอบ consent หลังไปขั้นเซ็นและ callback ค้างจากรอบก่อน นอกเหนือจาก review-component test เดิม
 - รายละเอียดผล `local:check`, browser 1440/390, ข้อจำกัด และ read-only legacy query อยู่ใน [verification report](../../review/2026-09-11-sales/remediation-verification.md)
-- Test discovery ตอนนี้เพิ่มเฉพาะ `sales-read-scope` และ `sales-money-regression` ที่สร้างจริง; booking/contract specs รอชุด B/C
+- Test discovery ณ ชุด A เพิ่ม `sales-read-scope` และ `sales-money-regression`; ชุด B เพิ่ม `bookings-lifecycle` และชุด C เพิ่ม contract consistency ใน `credit-payment-flow` เดิมแล้ว (รอบรวมสุดท้าย9 suites/123 tests)
 
 - Final checkpoint: `local:check` PASS 21 checks; Web 1928 / shared77 / storefront31; browser core 8 states (1440/390) ไม่ล้น ไม่มี uncaught error/การเขียนธุรกรรมจริง

diff --git a/docs/review/2026-09-11-sales/remediation-evidence/README.md b/docs/review/2026-09-11-sales/remediation-evidence/README.md
@@ -1,0 +1,21 @@
+# Six-menu UI regression evidence
+
+11 September 2026. Real checkout React pages, synthetic API fixtures at `http://localhost:5207`; no application database or outbound monetary/message calls. The test config restricts the target to loopback, supplies a synthetic principal, and rejects every unsupported API read/write. PDF bytes are a transport fixture, not a real contract document.
+
+Command: `npm run test:e2e --workspace=apps/web -- --config=playwright.sales.config.ts`
+
+Result: **18 tests passed**, 58.1 seconds, finished `2026-09-11T05:53:17Z`. The tested source is committed in `50a21b5d5`, `eb7000344`, and `b86687bd2`. Both 1440×1000 and 390×844 run the same nine scenarios. Images are captured after modal bounds settle; animations are disabled during capture.
+
+| Scenario | Assertions / capture |
+|---|---|
+| Customer list | page2, tier+sort, all201 XLSX rows and matching request filters; mobile filter focus return; `customers-filtered-page2-*` |
+| Customer detail | SALES can start credit/upload but cannot edit master; all7 tabs stay within page; `customer-detail-0-*` through `customer-detail-6-*` |
+| Credit queue | record51, null score, pending filter continuity, error/search focus, retry→empty; `credit-error-filters-retained-*` |
+| POS | cash9000/external10000, actual customer/product selection, handoff disclosure and restored wizard IDs; `pos-handoff-review-*` |
+| Bookings | size200 shows151 records, page2 detail, PAID restricted actions; `bookings-page2-paid-*` |
+| Contracts | guardian4/5, filtered all201 export and current-page50 export, Kanban page3 scoped counts; `contracts-kanban-page3-*` |
+| Sales | all201 export preserves every selected filter, sale detail link, null vs0 receipt, keyboard focus return, void last row→valid page; `sales-detail-deep-link-*` |
+| Export cancellation | hold page2, switch SHOP→FINANCE in sidebar, await actionable cancellation message, no download |
+| Role/PDF | FINANCE_MANAGER cannot create/sign; ACTIVE+APPROVED downloads the intercepted PDF; `contracts-finance-read-actions-*` |
+
+All scenarios reject uncaught page errors. Screenshots also assert page horizontal overflow is absent; modals must fit the viewport. Additional price/signing, booking lifecycle and quote/signature states live in `../evidence/core`, `../evidence/bookings`, and `../evidence/contracts`; those scripts passed8/20/10 states respectively on this checkout. API/ledger assertions use the separate disposable PostgreSQL harness; see [verification report](../remediation-verification.md).
